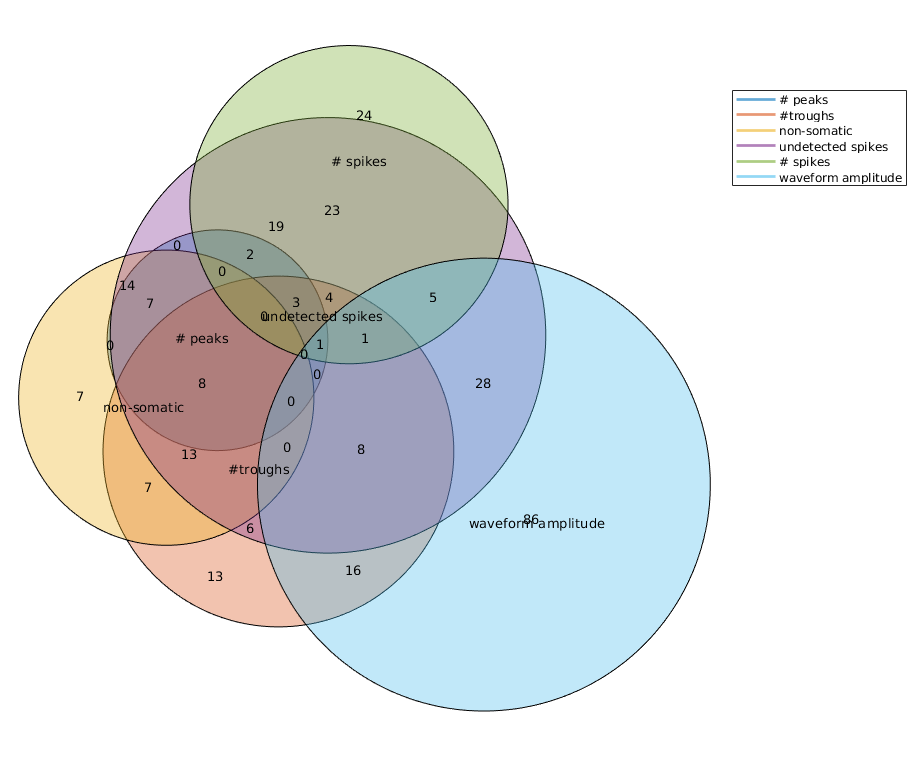
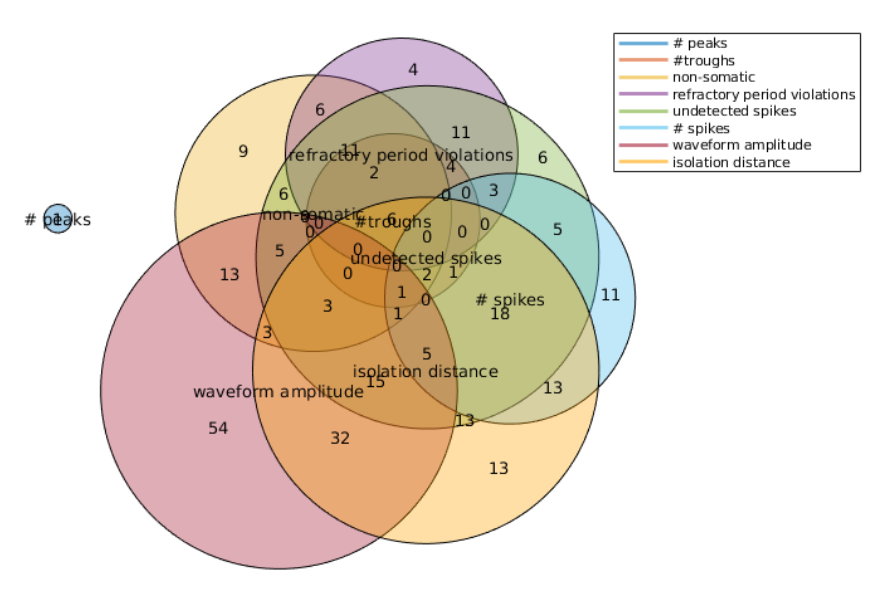
general plots

diff --git a/qualityMetrics/bc_plotGlobalQualityMetric.m b/qualityMetrics/bc_plotGlobalQualityMetric.m
@@ -1,0 +1,175 @@
+% 1. multi-venn diagram of units classified as noise/mua by each quality metric
+if param.plotGlobal
+    % 1. single/multi/noise/axonal waveforms 
+    figure('Color', 'w');
+    subplot(121)
+    title('Single unit template waveforms');hold on;
+    singleU = uniqueTemplates(find(unitType==1));
+    set(gca, 'XColor', 'w', 'YColor', 'w')
+    singleUnitLines = arrayfun(@(x) plot(squeeze(templateWaveforms(singleU(x),:,qMetric.maxChannels(singleU(x)))), 'linewidth', 1, 'Color', 'k'), 1:size(singleU,1));
+    
+%     subplot(132)
+%     multiU = uniqueTemplates(find(unitType==2));
+%     title('Multi unit template waveforms');hold on;
+%     multiUnitLines = arrayfun(@(x) plot(squeeze(templateWaveforms(multiU(x),:,qMetric.maxChannels(multiU(x)))), 'linewidth', 1, 'Color', 'k'), 1:size(multiU,1));
+    
+    subplot(122)
+    set(gca, 'XColor', 'w', 'YColor', 'w')
+    noiseU = uniqueTemplates(find(unitType==0));
+    title('Noise unit template waveforms');hold on;
+    noiseUnitLines = arrayfun(@(x) plot(squeeze(templateWaveforms(noiseU(x),:,qMetric.maxChannels(noiseU(x)))), 'linewidth', 1, 'Color', 'k'), 1:size(noiseU,1));
+
+    
+    % 2. histogram for each quality metric, red line indicates
+    % classification threshold
+    figure();
+    suptitle([num2str(sum(unitType==1)) ' single units, ', num2str(sum(unitType==2)), ' multi-units, ', num2str(sum(unitType==0)), ' noise units'])
+    set(gcf, 'color', 'w')
+
+    subplot(4, 2, 1)
+    
+    hold on;
+    histogram(qMetric.nPeaks, 'FaceColor', colorMtx(1, 1:3), 'FaceAlpha', colorMtx(1, 4));
+    yLim = ylim;
+    line([param.maxNPeaks + 0.5, param.maxNPeaks + 0.5], [0, yLim(2)], 'Color', 'r', 'LineWidth', 2)
+    ylabel('unit count')
+    xlabel('# peaks')
+    makepretty;
+
+    subplot(4, 2, 2)
+    
+    hold on;
+    histogram(qMetric.nTroughs, 'FaceColor', colorMtx(2, 1:3), 'FaceAlpha', colorMtx(2, 4));
+    yLim = ylim;
+    line([param.maxNTroughs + 0.5, param.maxNTroughs + 0.5], [0, yLim(2)], 'Color', 'r', 'LineWidth', 2)
+    ylabel('unit count')
+    xlabel('# troughs')
+    makepretty;
+
+    subplot(4, 2, 3)
+    
+    hold on;
+    histogram(1-qMetric.somatic, 'FaceColor', colorMtx(3, 1:3), 'FaceAlpha', colorMtx(3, 4));
+    yLim = ylim;
+    line([param.somatic - 0.5, param.somatic - 0.5], [0, yLim(2)], 'Color', 'r', 'LineWidth', 2)
+    ylabel('unit count')
+    xlabel('non somatic')
+    makepretty;
+
+    subplot(4, 2, 4)
+    
+    hold on;
+    histogram(qMetric.Fp, 'FaceColor', colorMtx(4, 1:3), 'FaceAlpha', colorMtx(4, 4), 'BinEdges', [0:5:max(qMetric.Fp)]);
+    set(gca, 'yscale', 'log')
+    yLim = ylim;
+    line([param.maxRPVviolations + 0.5, param.maxRPVviolations + 0.5], [yLim(1), yLim(2)], 'Color', 'r', 'LineWidth', 2)
+    ylabel('unit count')
+    xlabel('refractory period violations (%)')
+    makepretty;
+
+    subplot(4, 2, 5)
+    
+    hold on;
+    histogram(qMetric.percSpikesMissing, 'FaceColor', colorMtx(5, 1:3), 'FaceAlpha', colorMtx(5, 4), 'BinEdges', [0:5:max(qMetric.percSpikesMissing)]);
+    
+    yLim = ylim;
+    line([param.maxPercSpikesMissing + 0.5, param.maxPercSpikesMissing + 0.5], [yLim(1), yLim(2)], 'Color', 'r', 'LineWidth', 2)
+    ylabel('unit count')
+    xlabel('spikes below detection threshold (%)')
+    makepretty;
+
+    subplot(4, 2, 6)
+    
+    hold on;
+    set(gca, 'xscale', 'log')
+    histogram(qMetric.nSpikes, 'FaceColor', colorMtx(6, 1:3), 'FaceAlpha', colorMtx(6, 4), 'BinEdges', [0:100:max(qMetric.nSpikes)]);
+    
+    yLim = ylim;
+    line([param.minNumSpikes + 0.5, param.minNumSpikes + 0.5], [yLim(1), yLim(2)], 'Color', 'r', 'LineWidth', 2)
+    ylabel('unit count')
+    xlabel('# spikes')
+    makepretty;
+
+    subplot(4, 2, 7)
+    
+    hold on;
+     set(gca, 'xscale', 'log')
+    histogram(qMetric.rawAmplitude, 'FaceColor', colorMtx(7, 1:3), 'FaceAlpha', colorMtx(7, 4), 'BinEdges', [0:10:max(qMetric.rawAmplitude)]);
+    yLim = ylim;
+    line([param.minAmplitude + 0.5, param.minAmplitude + 0.5], [yLim(1), yLim(2)], 'Color', 'r', 'LineWidth', 2)
+    ylabel('unit count')
+    xlabel('mean raw waveform peak amplitude (uV)')
+    makepretty;
+
+    if param.computeDistanceMetrics && ~isnan(param.isoDmin)
+        subplot(4, 2, 8)
+        
+        hold on;
+        histogram(qMetric.isoD, 'FaceColor', colorMtx(8, 1:3), 'FaceAlpha', colorMtx(8, 4), 'BinEdges', [0:10:max(qMetric.isoD)]);
+        yLim = ylim;
+        line([param.isoDmin + 0.5, param.isoDmin + 0.5], [yLim(1), yLim(2)], 'Color', 'r', 'LineWidth', 2)
+        ylabel('unit count')
+        xlabel('isolation distance')
+        makepretty;
+    end
+    
+    figure();
+    if param.computeDistanceMetrics && ~isnan(param.isoDmin)
+        colorMtx = [lines(7), repmat(0.6, 7, 1)];
+        colorMtx = [colorMtx; [rgb('Orange'), 0.6]];
+
+        setsw = {find(qMetric.nPeaks > param.maxNPeaks), find(qMetric.nTroughs > param.maxNTroughs), ...
+            find(qMetric.somatic == 0), find(qMetric.Fp > param.maxRPVviolations), ...
+            find(qMetric.percSpikesMissing > param.maxPercSpikesMissing), ...
+            find(qMetric.nSpikes <= param.minNumSpikes), find(qMetric.rawAmplitude <= param.minAmplitude),...
+            find(qMetric.isoD <= param.isoDmin)};
+        emptyCell = find(cellfun(@isempty,setsw));
+        if ~isempty(emptyCell)
+            for iEC = 1:length(emptyCell)
+            setsw{emptyCell(iEC)} = 0;
+            end
+        end
+        title('# of units classified as noise/mua/non-somatic with quality metrics')
+        subplot(1, 5, 1:4)
+        vennEulerDiagram(setsw, {'# peaks', '#troughs', 'non-somatic', 'refractory period violations', ...
+            'undetected spikes', '# spikes', 'waveform amplitude', 'isolation distance'}, ...
+            'ColorOrder', colorMtx(:, 1:3), ...
+            'ShowIntersectionCounts', 1);
+        subplot(1, 5, 5) % hacky way to get a legend
+        set(gca, 'XColor', 'w', 'YColor', 'w')
+        hold on;
+        arrayfun(@(x) plot(NaN, NaN, 'linewidth', 2, 'color', colorMtx(x, :)), 1:8);
+        legend({'# peaks', '#troughs', 'non-somatic', 'refractory period violations', ...
+            'undetected spikes', '# spikes', 'waveform amplitude', 'isolation distance'})
+        set(gcf, 'color', 'w')
+
+    else
+        colorMtx = [lines(7), repmat(0.6, 7, 1)];
+
+        setsw = {find(qMetric.nPeaks > param.maxNPeaks), find(qMetric.nTroughs > param.maxNTroughs), ...
+            find(qMetric.somatic == 0), find(qMetric.Fp > param.maxRPVviolations), ...
+            find(qMetric.percSpikesMissing > param.maxPercSpikesMissing), ...
+            find(qMetric.nSpikes <= param.minNumSpikes), find(qMetric.rawAmplitude <= param.minAmplitude)};
+        title('# of units classified as noise/mua/non-somatic with quality metrics')
+        subplot(1, 5, 1:4)
+        emptyCell = find(cellfun(@isempty,setsw));
+        if ~isempty(emptyCell)
+            for iEC = 1:length(emptyCell)
+            setsw{emptyCell(iEC)} = 0;
+            end
+        end
+        
+        vennEulerDiagram(setsw, {'# peaks', '#troughs', 'non-somatic', 'refractory period violations', 'undetected spikes', '# spikes', 'waveform amplitude'}, ...
+            'ColorOrder', colorMtx(:, 1:3), ...
+            'ShowIntersectionCounts', 1);
+        subplot(1, 5, 5) % hacky way to get a legend
+        set(gca, 'XColor', 'w', 'YColor', 'w')
+        hold on;
+        arrayfun(@(x) plot(NaN, NaN, 'linewidth', 2, 'color', colorMtx(x, :)), 1:7);
+        legend({'# peaks', '#troughs', 'non-somatic', 'refractory period violations', 'undetected spikes', '# spikes', 'waveform amplitude'})
+        set(gcf, 'color', 'w')
+    end
+
+
+
+end

diff --git a/README.md b/README.md
@@ -85,7 +85,9 @@ Below: examples of a unit with high isolation distance (left) and one with low i
 
 #### Global output plots 
 
-<img src="https://github.com/Julie-Fabre/bombcell/blob/master/images/unitRemovedEulerVenn.png" width=40% height=40%>
+<img src="https://github.com/Julie-Fabre/bombcell/blob/master/images/unitRemovedEulerVenn.png" width=80% height=80%>
+
+<img src="https://github.com/Julie-Fabre/bombcell/blob/master/images/waveformsSingleNoise.png" width=60% height=60%>
 
 <img src="https://github.com/Julie-Fabre/bombcell/blob/master/images/generalPlotHist.png">
 
